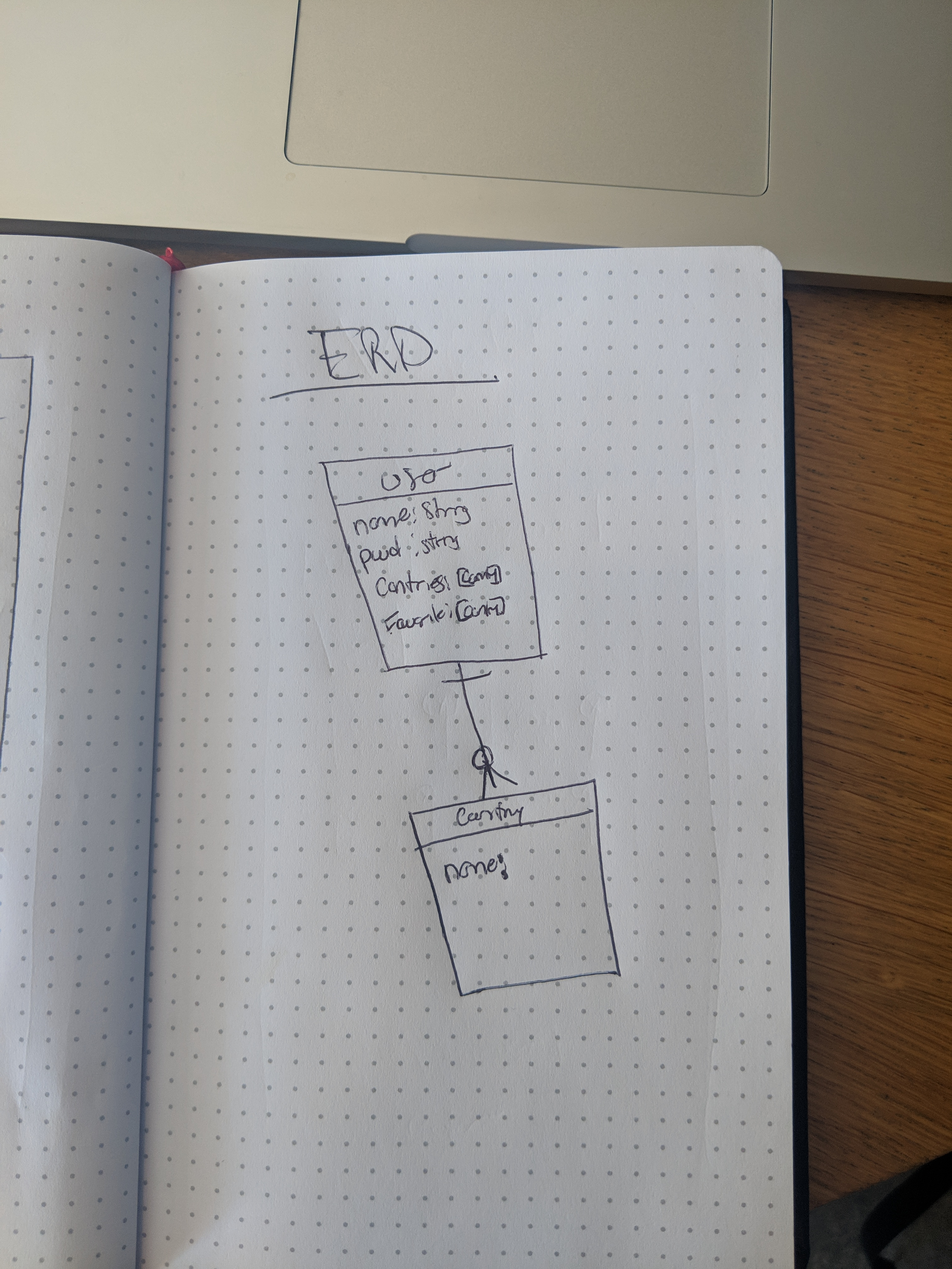
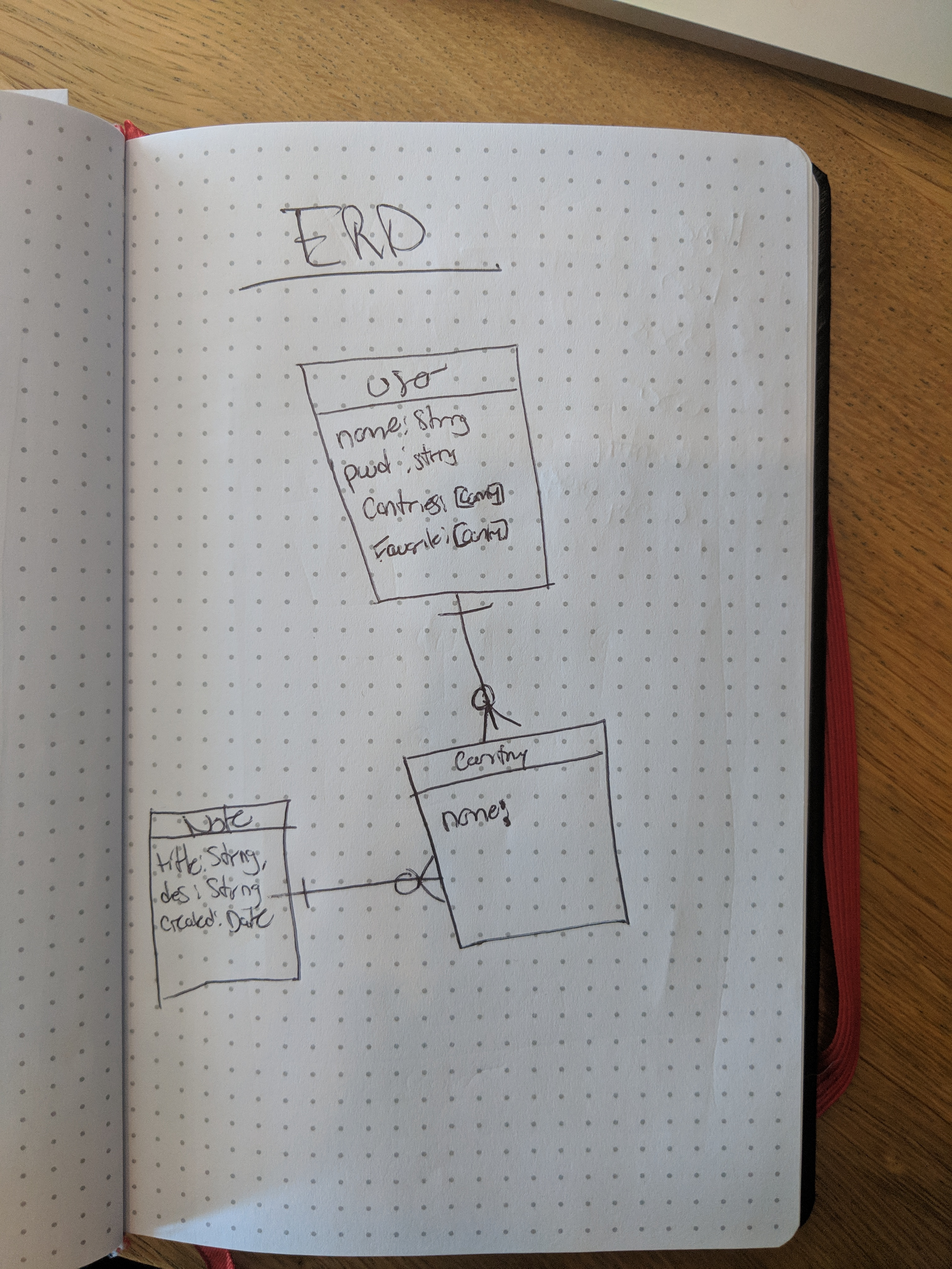
updated readme

diff --git a/README.md b/README.md
@@ -1,6 +1,6 @@
 # Vago
 
-Through this application you are able to explore different countries around the world before you book your ticket and go wandering. You can save countries that you want to visit and return to them later.
+Through this application you are able to explore different countries around the world before you book your ticket and go wandering. You can save countries that you want to visit and return to them later and add travel tips so you don't forget what you want to see.
 
 [Deployed Heroku Site](https://vago-travel.herokuapp.com/)
 
@@ -16,7 +16,8 @@ Through this application you are able to explore different countries around the 
 * The user can add a certain country to a list of places they would like to visit.
 * The user can remove a country if they are no longer interested in visiting.
 * The user can click a link to be forwarded to an outside page to view flight information.
-* This user can click on pieces of the country page to view outside information.
+* The user can click on pieces of the country page to view outside information.
+* The user is able to add and delete travel tips for each country they are interested in visiting. 
 
 ## Wireframe:
 
@@ -55,6 +56,7 @@ Through this application you are able to explore different countries around the 
 * Able to create, update, and delete a country
 * Able to add a country to a list of favorites
 * Able to link to an outside site to view flights and further information about a topic
+* Able to add and delete a travel tip
 
 ___
 
